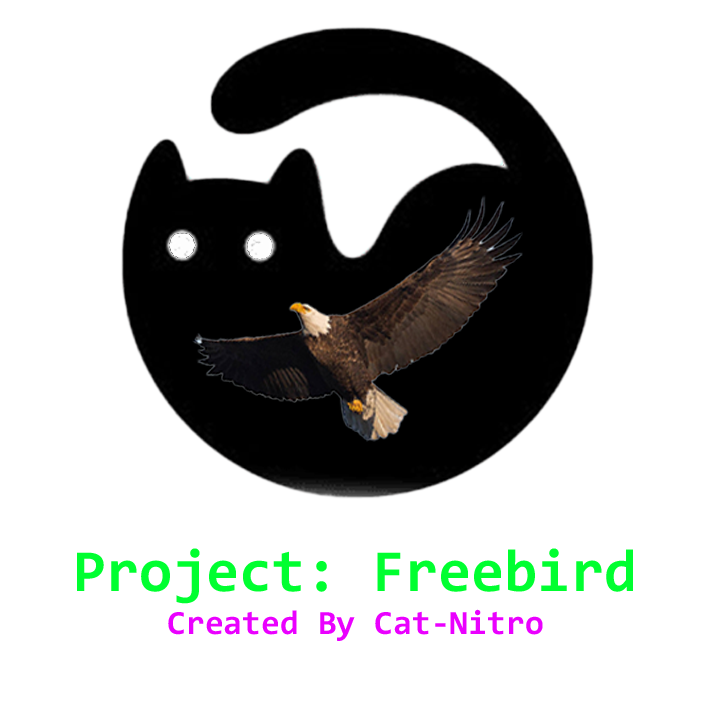
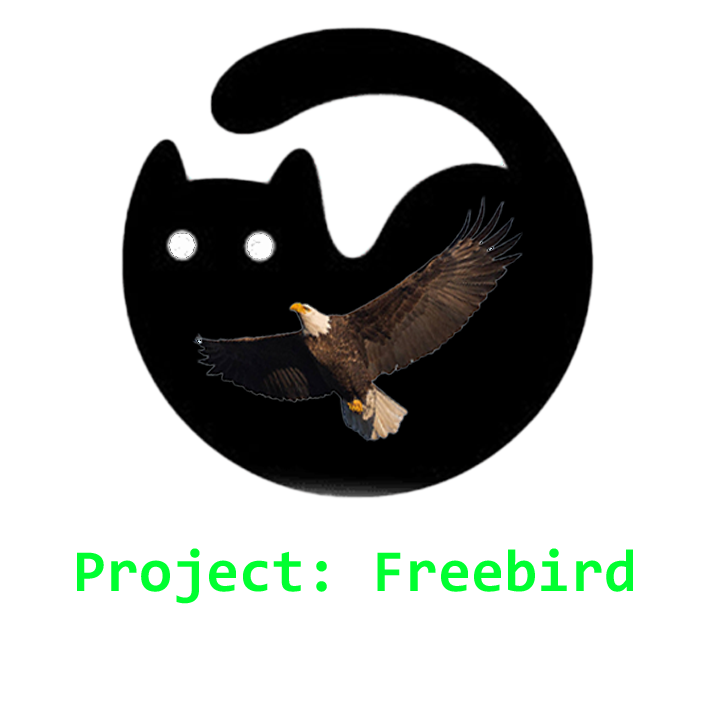
The Citadel's on full alert. I've never seen it lit up like that!
Dansa med oss
Klappa era händer
Gör som vi gör
Ta några steg åt vänster
Lyssna och lär
Missa inte chansen
Nu är vi här med
Caramelldansen

Changed region(s): [[0.5253, 0.8343, 0.7725, 0.8961], [0.2163, 0.8652, 0.4944, 0.8961]]

diff --git a/Ultraviolet-Static/public/index.html b/Ultraviolet-Static/public/index.html
@@ -70,7 +70,7 @@
       class="flex-center logo-wrapper header-center"
     >
       <img class="logo" src="Pfp.png" alt="Ultraviolet" />
-      <h1>Cat-Nitro | Project: Free Bird</h1>
+      <h1>Project: Free Bird</h1>
     </div>
     <div class="flex-center desc">
       <p>
